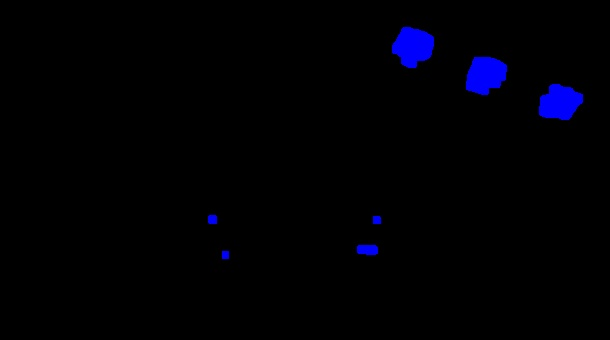
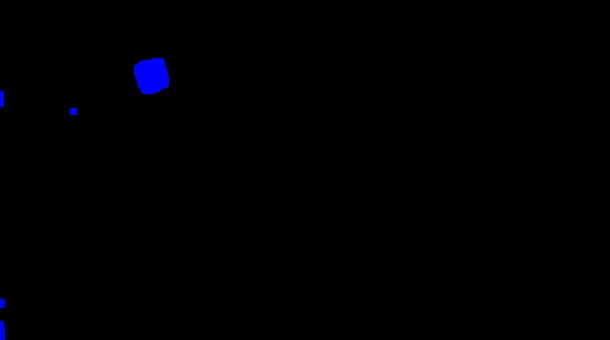
it works, almost

diff --git a/move_robot.py b/move_robot.py
@@ -17,10 +17,10 @@ def lim(n):
     return max(min(1.919, n), -1.919)
 
 def invkin(xyz):
-	d1 = 16.8; # cm (height of 2nd joint)
-	a1 = 0; # (distance along "y-axis" to 2nd joint)
-	a2 = 17.3; # (distance between 2nd and 3rd joints)
-	d4 = 20.5; # (distance from 3rd joint to gripper center - all inclusive, ie. also 4th joint)
+	d1 = 16.8 # cm (height of 2nd joint)
+	a1 = 0.0 # (distance along "y-axis" to 2nd joint)
+	a2 = 17.3 # (distance between 2nd and 3rd joints) (17,3)
+	d4 = 20.5 # (distance from 3rd joint to gripper center - all inclusive, ie. also 4th joint)
 
 	# Insert code here!!!
 	xc = xyz[0]; yc = xyz[1]; zc = xyz[2]
@@ -33,8 +33,10 @@ def invkin(xyz):
 	s = (zc - d1)
 	D = ( r2 + math.pow(s,2) - math.pow(a2,2) - math.pow(d4,2))/(2*a2*d4)
 
-	q3 = lim(math.atan2(-math.sqrt(1-math.pow(D,2)), D))
-	
+	q3 = lim(math.atan2(-1*math.sqrt(1-math.pow(D,2)), D))
+
+
+
 	print "%.2f & %.2f & %.2f" % (D, r2, q1)
 	# q3 = math.atan2(-math.sqrt(1-math.pow(D,2)), D)
 
@@ -45,6 +47,7 @@ def invkin(xyz):
 
 	print "q1:" + str(math.degrees(q1)) + ", q2: " + str(math.degrees(q2)) + ", q3: " + str(math.degrees(q3)) + ", q4: " + str(math.degrees(q4))
 	q2 = q2 - (math.pi/2)
+	q3 = q3 - (math.pi/18)
 	return q1, q2, q3, q4
 
 class MoveRobot:
@@ -66,7 +69,7 @@ class MoveRobot:
 				xpos_ypos_zpos_angle[3]
 				]
 			]		
-		dur = rospy.Duration(5)
+		dur = rospy.Duration(3)
 
 		# construct a list of joint positions by calling invkin for each xyz point
 		for p in xyz_positions:
@@ -86,12 +89,14 @@ class MoveRobot:
 		self.client.wait_for_result()
 
 def open_gripper():
+	time.sleep(1)
 	pub = rospy.Publisher('gripper/command', Float64, queue_size=10)
 	pub.publish(0)
 
 def close_gripper():	
 	pub = rospy.Publisher('gripper/command', Float64, queue_size=10)
 	pub.publish(6)
+	time.sleep(1)
 
 def standard_position():
 	print "Moving to standard position"
@@ -119,6 +124,7 @@ def deliver(x_y_z_angle):
 	node.send_command()
 	time.sleep(1)
 	open_gripper()
+	time.sleep(1)
 
 def move_arm(x_y_z_angle):
 	node = MoveRobot("/arm_controller/follow_joint_trajectory", invkin(x_y_z_angle))

diff --git a/robot.py b/robot.py
@@ -42,8 +42,8 @@ import json
 yellow = []
 Blue = []
 
-# bcords = []
-# ycords = []
+bcords = []
+ycords = []
 
 def callback(data):
    #rospy.loginfo(data.data)
@@ -86,7 +86,7 @@ def MainRobot():
         moreBlocks = True
         while moreBlocks == True:
                 pickHeight = 7
-                deliverHeight = 4
+                deliverHeight = 7
                 xOffset = 8.564
                 yOffset = 8.702
                 # for each coordinate
@@ -94,13 +94,13 @@ def MainRobot():
                 stackBlue = 3
                 for x in bcords:
                         pick_up([float(x[1]/yOffset),-float(x[0]/xOffset),pickHeight,0])
-                        deliver([12,18,stackBlue,0])
+                        deliver([8,20,stackBlue,0])
                         stackBlue =stackBlue + 4
 
                 stackYellow = 3
                 for x in ycords:
                         pick_up([float(x[1]/yOffset),-float(x[0]/xOffset),pickHeight,0])
-                        deliver([12,-18,stackYellow,0])
+                        deliver([8,-20,stackYellow,0])
                         stackYellow = stackYellow+4
                 
                 moreBlocks = False

diff --git a/Computer_vision/computerVision.py b/Computer_vision/computerVision.py
@@ -113,7 +113,7 @@ class computerVision:
         such that small holes are filled. Afterwards the 'blobs' are closed using a
         combination of dilate and erode
         """
-        ret,th1 = cv2.threshold(image,150,255,cv2.THRESH_BINARY)
+        ret,th1 = cv2.threshold(image,155,255,cv2.THRESH_BINARY)
         if debug: cv2.imwrite('debug_pics/threshold_binary.jpg',th1) #cv2.imshow('th1',th1)
         resdi = cv2.dilate(th1,np.ones((7,7),np.uint8))
         if debug: cv2.imwrite('debug_pics/dilated.jpg',resdi) #cv2.imshow('dilated',resdi)
@@ -240,10 +240,10 @@ hsv = cv2.cvtColor(image, cv2.COLOR_BGR2HSV)
 # this one works quite fine
 ###################
 
-lower_blue = np.array([110,125,125])
+lower_blue = np.array([90,125,25])
 upper_blue = np.array([190,255,255])
 
-lower_yellow = np.array([15,155,125])
+lower_yellow = np.array([20,125,75])
 upper_yellow = np.array([50,255,255])
 
 # lower_blue = np.array([110,80,80])
